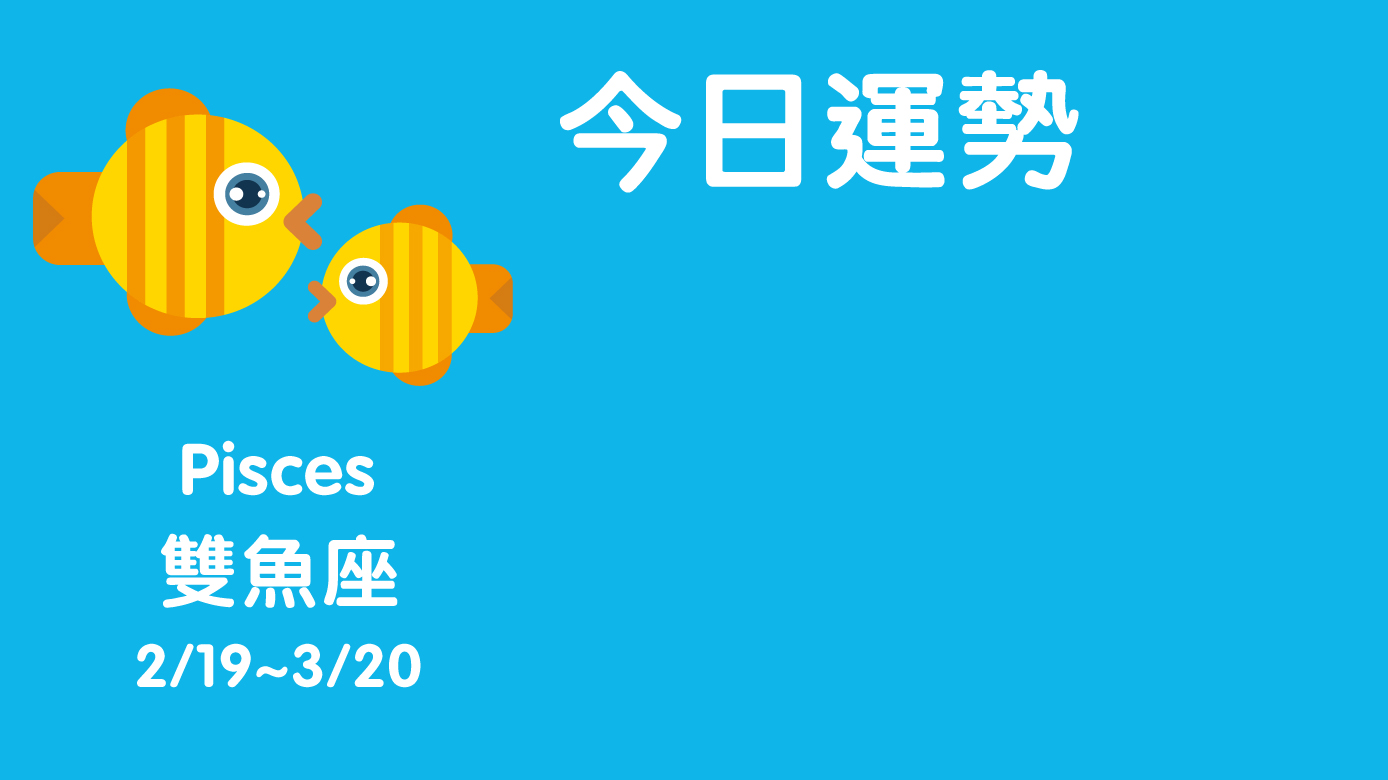
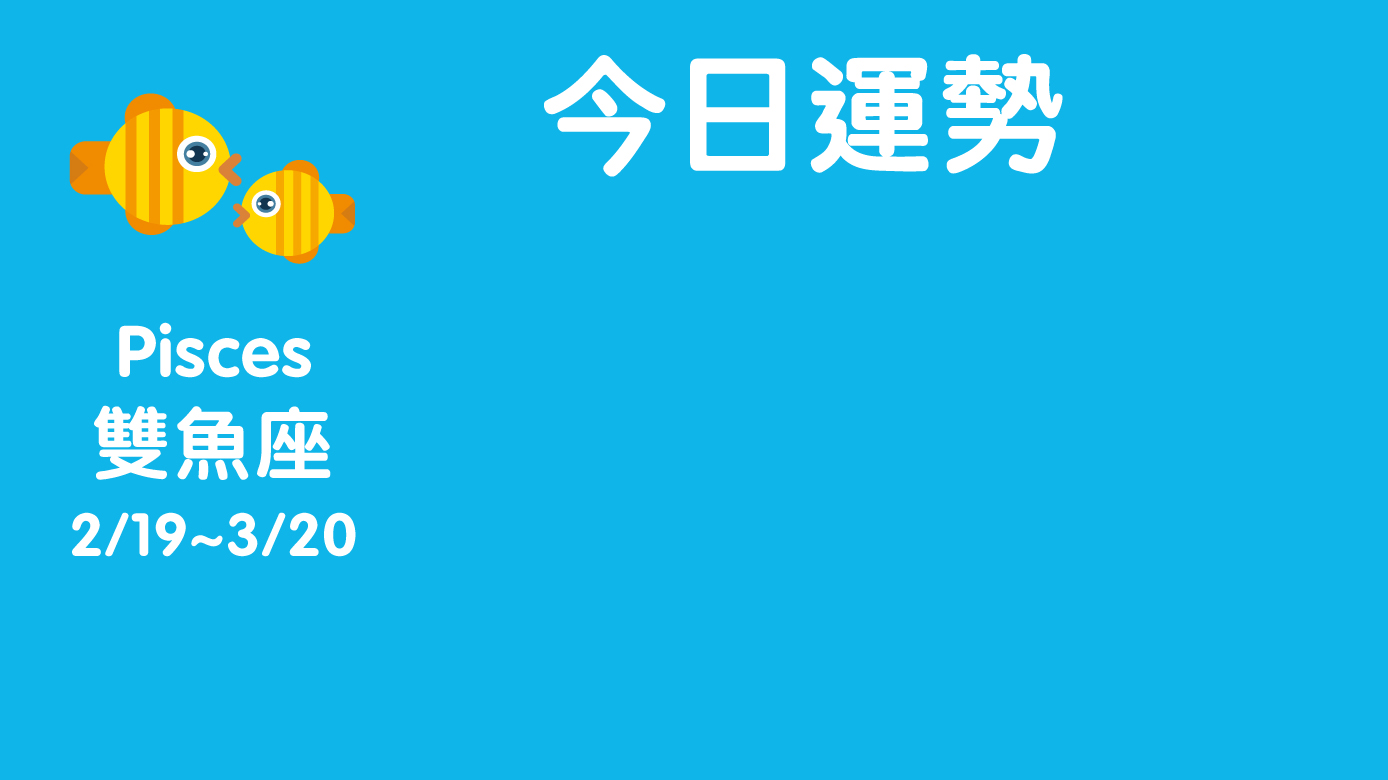
helen

diff --git a/image.py b/image.py
@@ -87,9 +87,9 @@ def consImages():
         content = getConstellation(cons)
         temp = ""
         for j in range(len(content)):
-            if j % 9 == 0 and j != 0:
-                temp += ' \n' + content[j] + " "
-            else: temp += content[j] + " "
+            if j % 13 == 0 and j != 0:
+                temp += ' \n' + content[j]# + " "
+            else: temp += content[j]# + " "
         print(temp)
 
         #星座图片路径
@@ -106,7 +106,7 @@ def consImages():
             input("\n\033[1;31;40m星座图片不存在或路径不对: " + e.strerror + "\033[0;40m")
             return
         draw = ImageDraw.Draw(im1)
-        draw.text((550,200),temp ,(255,255,255),font=font)
+        draw.text((450,230),temp ,(255,255,255),font=font)
         # draw.text((1200,300),result['summary'],(255,255,255),font=font)
         try:
             if i < 9:
